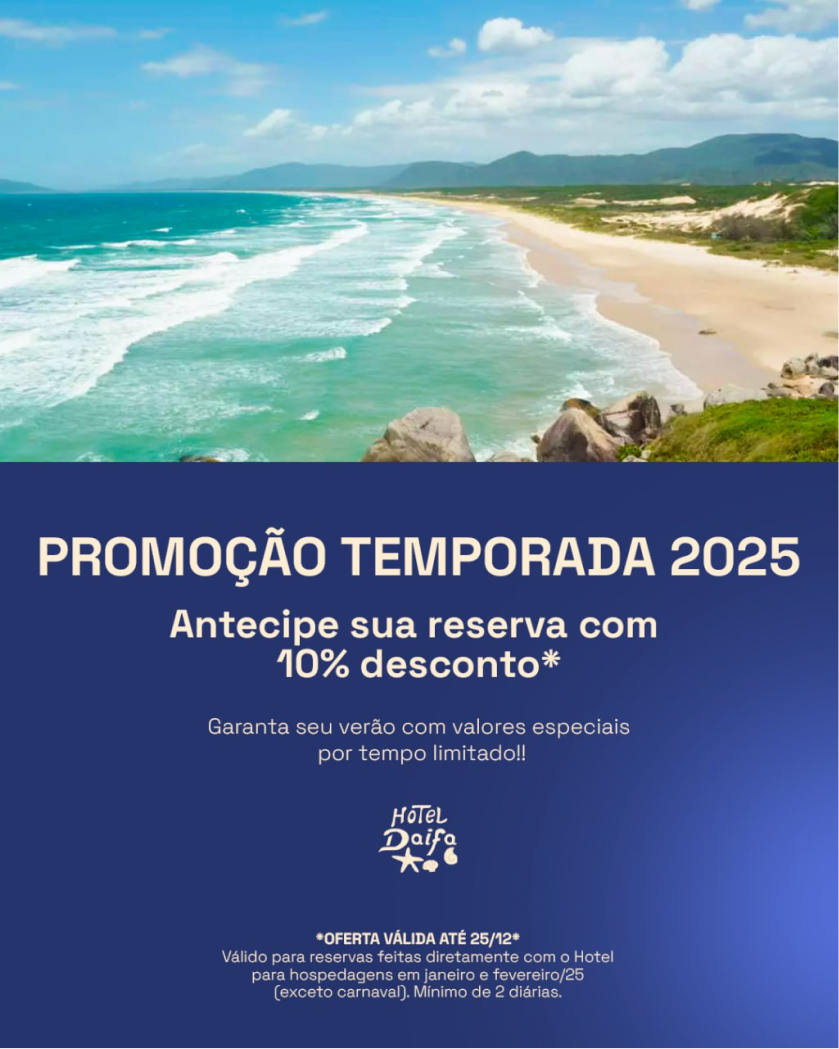
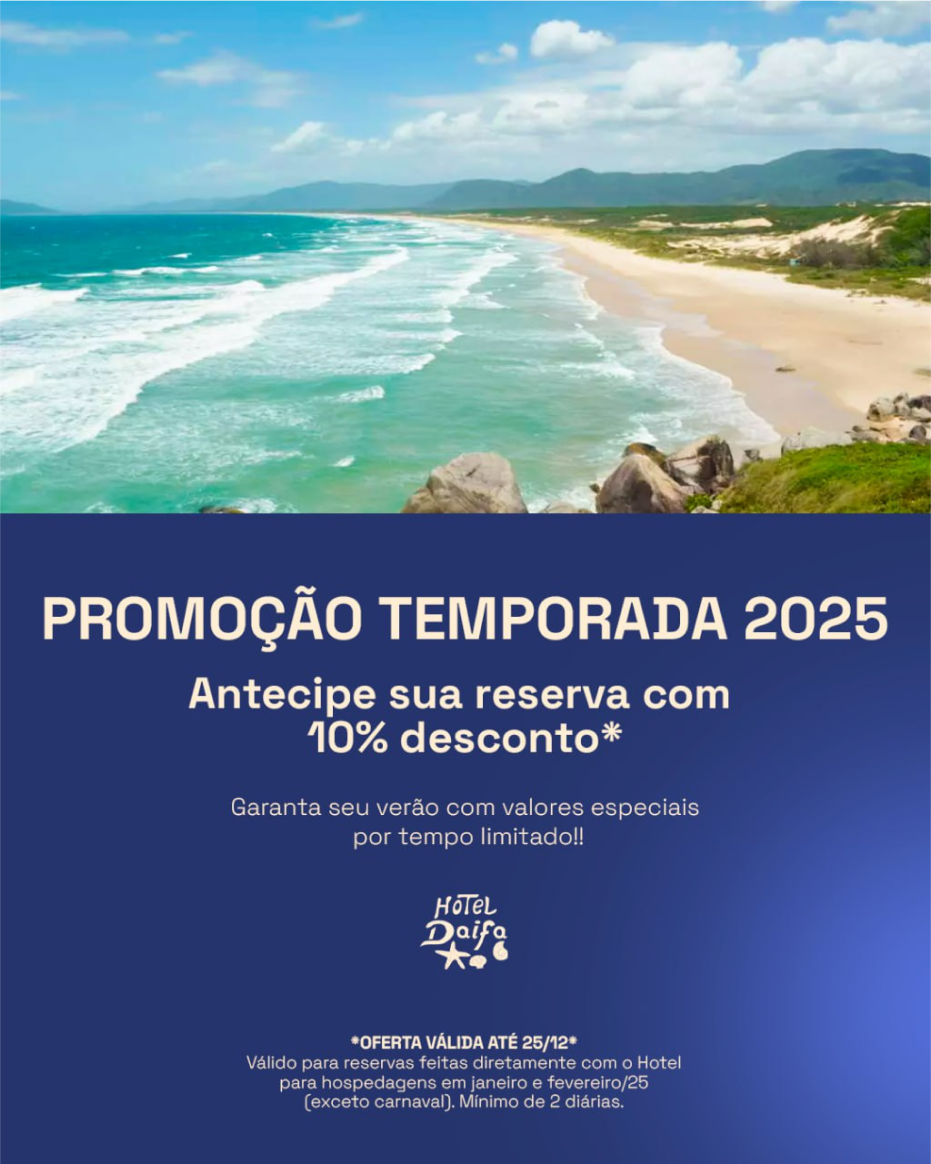
fix: change size of photos in modal promotion

diff --git a/src/components/ModalPromotion.tsx b/src/components/ModalPromotion.tsx
@@ -26,18 +26,19 @@ export function ModalPromotion() {
           >
             <Image
               src={"/img/image-modal.png"}
-              width={656}
-              height={293}
+              width={864}
+              height={386}
               alt="Imagem da promoção"
               className="hidden lg:block"
             />
-            <Image
-              src={"/img/image-modal-mobile.png"}
-              width={419}
-              height={524}
-              alt="Imagem da promoção"
-              className="lg:hidden"
-            />
+            <div className="w-[465px] max-w-80 lg:hidden">
+              <Image
+                src={"/img/image-modal-mobile.png"}
+                width={465}
+                height={581}
+                alt="Imagem da promoção"
+              />
+            </div>
           </Link>
         </div>
       )}
